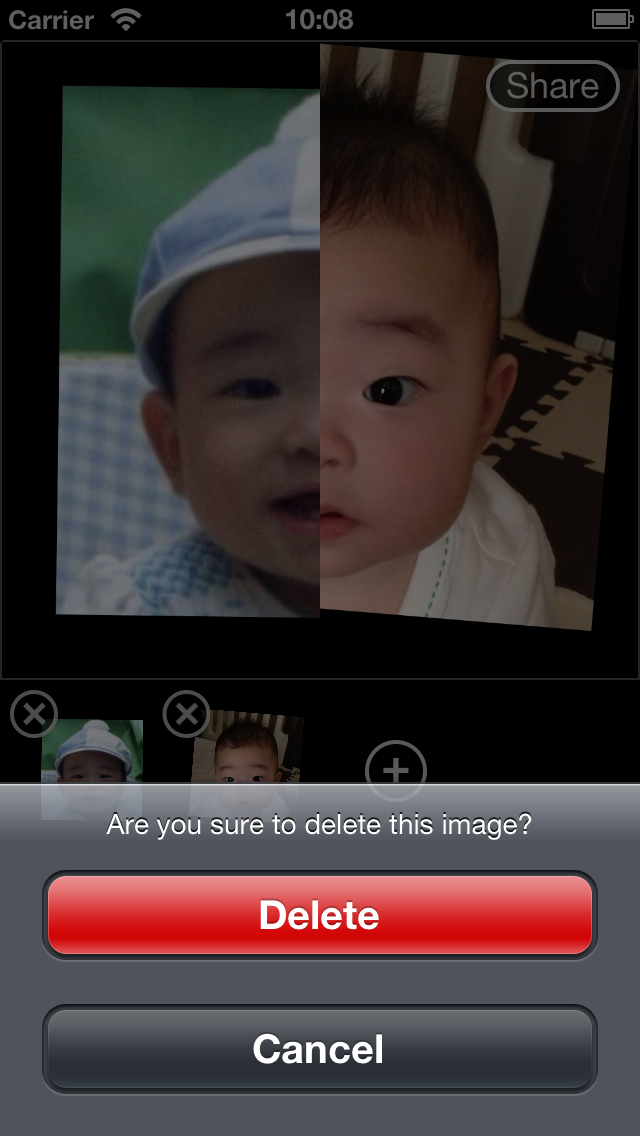
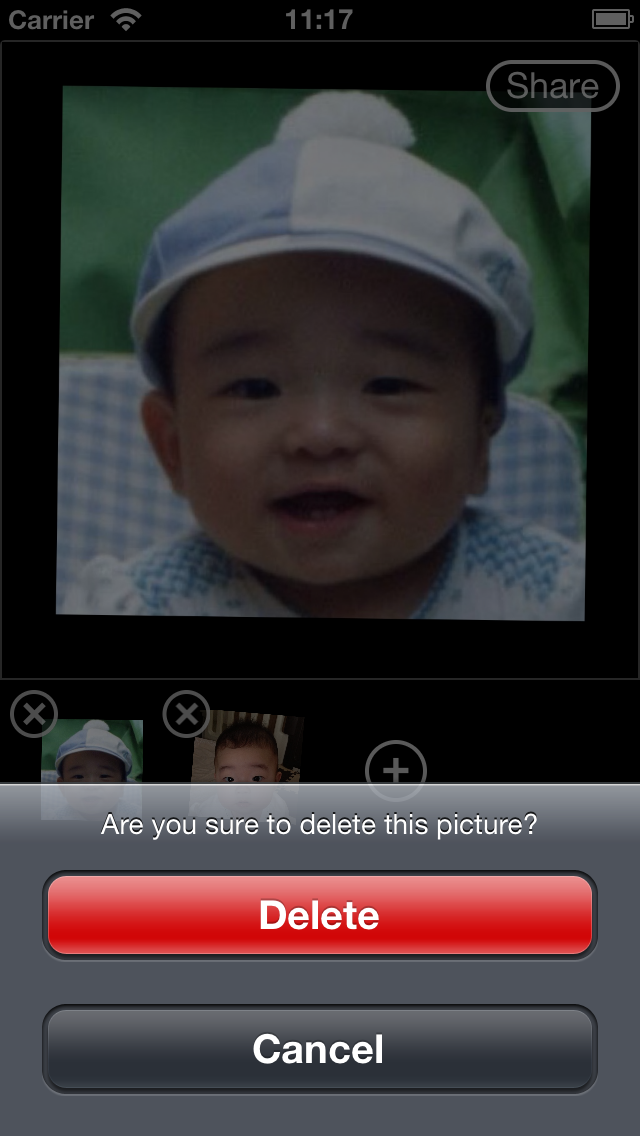
Change term photo to picture

Changed region(s): [[0.4688, 0.0, 0.9688, 0.5546], [0.1562, 0.7086, 0.8438, 0.7394]]

diff --git a/likealike.md b/likealike.md
@@ -8,18 +8,18 @@ What is Like Alike?
 --
 You want someone to be alike you?
 
-I do. That's why I wrote this small ios app to compare photo of my daughter and me.
+I do. That's why I wrote this small ios app to compare picture of my daughter and me.
 
 
 Get Started
 --
-Press the + button to add your photo from library.
+Press the + button to add your picture from library.
 
 <img src="assets/images/likealike/iphone_empty.png" width="160"/>
 
-Add Photo
+Add Picture
 --
-Scale and rotate your photo by using two fingers.
+Scale and rotate your picture by using two fingers.
 
 <img src="assets/images/likealike/iphone_trim_original.png" width="160"/>
 
@@ -27,27 +27,27 @@ Scale and rotate your photo by using two fingers.
 
 <img src="assets/images/likealike/iphone_trim_added.png" width="160"/>
 
-Mix Photos
+Mix Pictures
 --
-Have fun mixing your photos!!
+Have fun mixing your pictures!!
 
 <img src="assets/images/likealike/iphone_mix_mixed.png" width="160"/>
 
-Delete Photo
+Delete Picture
 --
-Press the x button to delete photo.
+Press the x button to delete picture.
 
 <img src="assets/images/likealike/iphone_delete.png" width="160"/>
 
-Rearrange Photos
+Rearrange Pictures
 --
-Long press the photo to start moving it.
+Long press the picture to start moving it.
 
 <img src="assets/images/likealike/iphone_rearrange.png" width="160"/>
 
 Share
 --
-Let's share mixed photo with your family and friends!
+Let's share mixed picture with your family and friends!
 
 * Twitter hashtag [#likealikeapp](https://twitter.com/search?q=%23likealikeapp&src=typd&mode=realtime)
 * Facebook hashtag [#likealikeapp](https://www.facebook.com/hashtag/likealikeapp?fref=ts)
